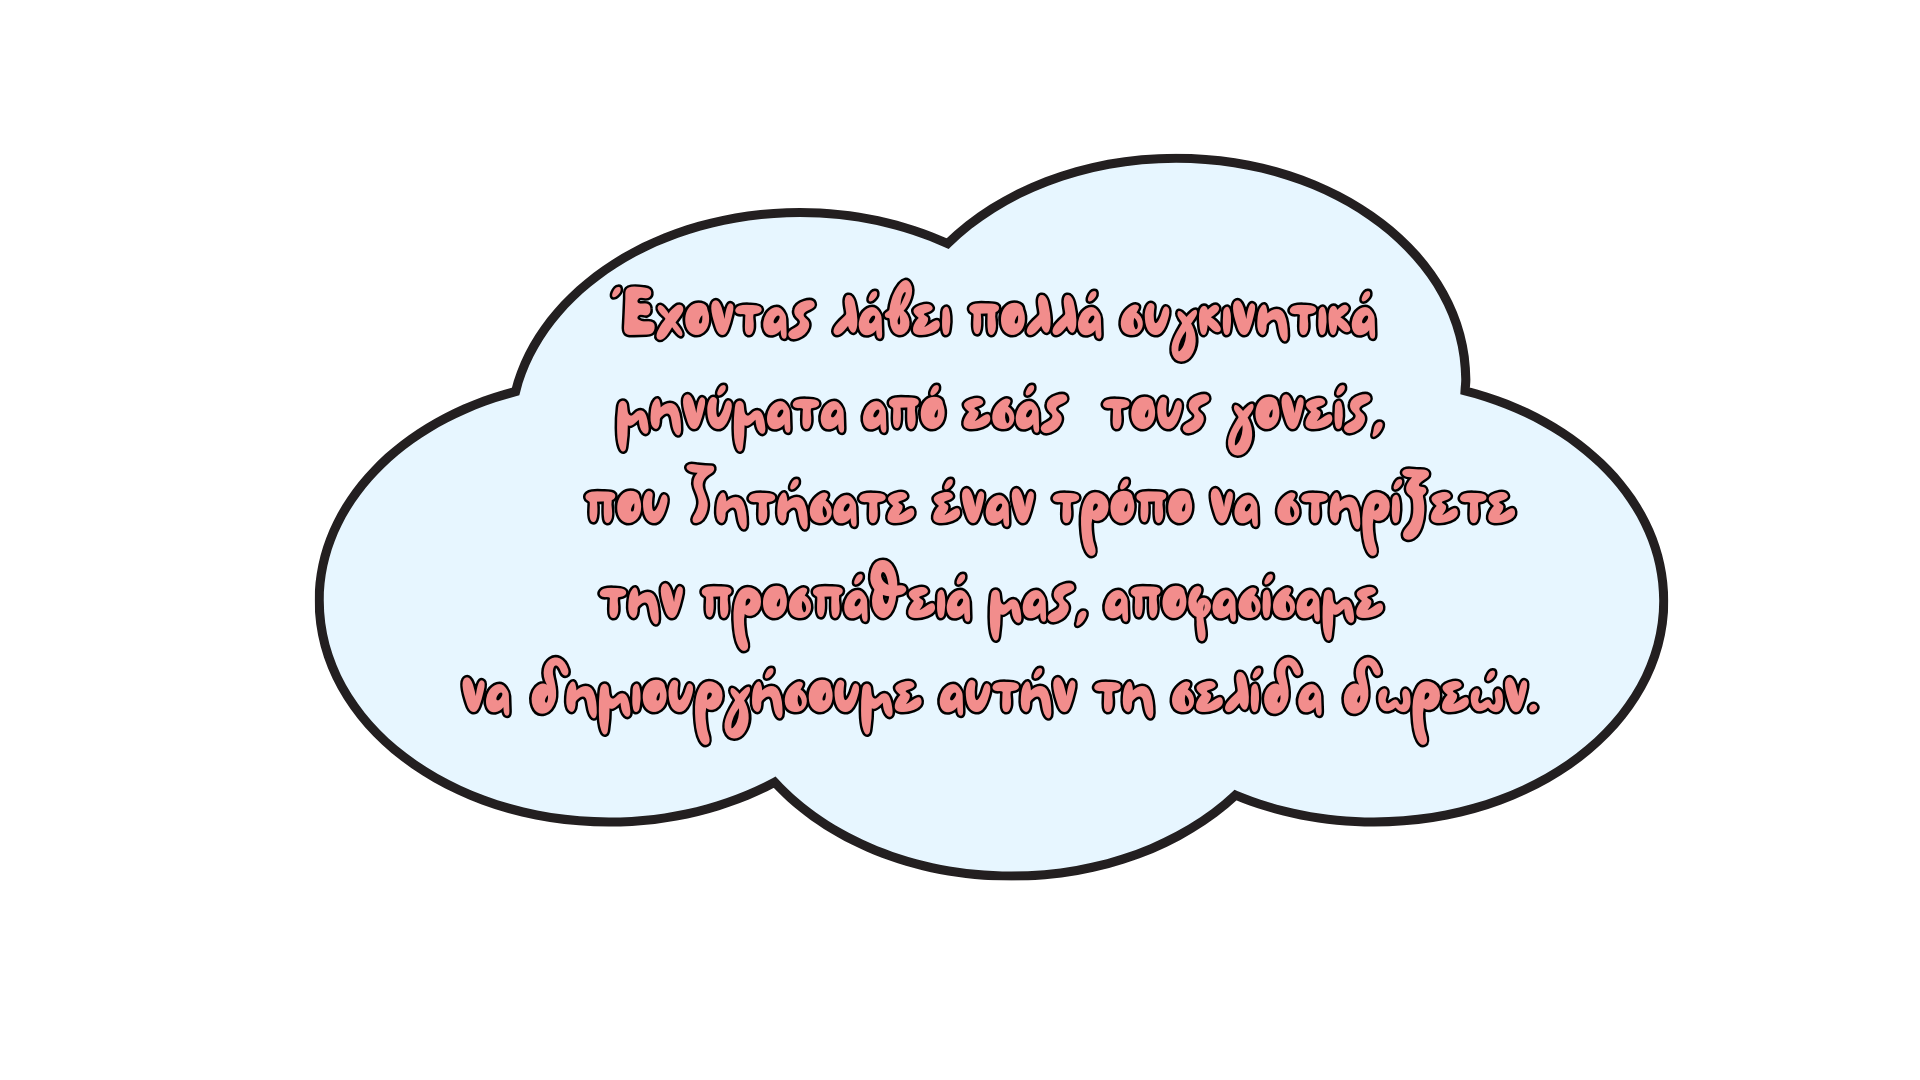
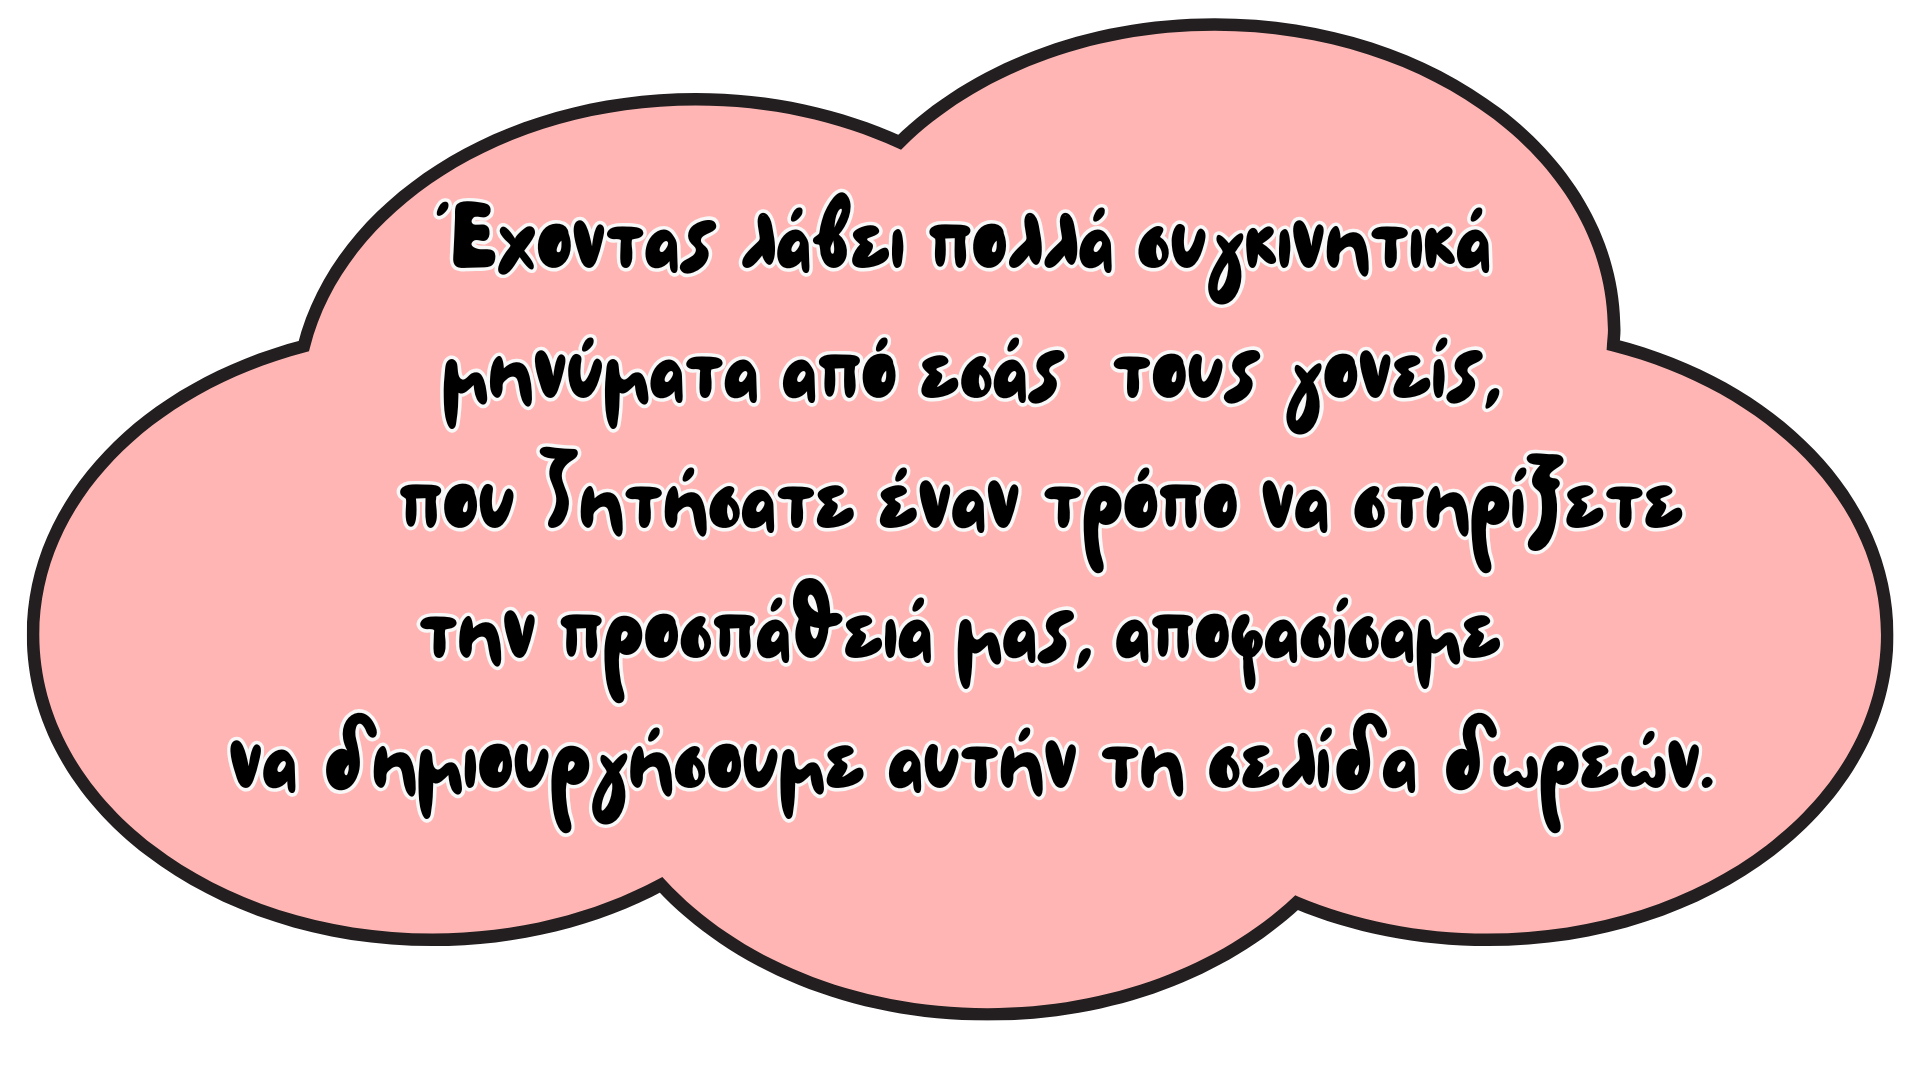
donate design update

diff --git a/resources/js/Pages/Donate.tsx b/resources/js/Pages/Donate.tsx
@@ -19,6 +19,7 @@ const Donate = ({ auth }: PageProps) => {
             Η δωρέα δεν ειναι απαραίτητη , εμείς θα συνεχίσουμε να δινουμε τον
             καλυτερο μας εαυτο για τα παιδια μας.
           </h1>
+
           <form
             action="https://www.paypal.com/donate"
             method="post"
@@ -30,8 +31,9 @@ const Donate = ({ auth }: PageProps) => {
               value="P8FY7TRDVBJMC"
             />
             <input
+              className="h-auto transition-shadow duration-300 rounded-lg shadow-lg bg-green-50/65 mt-14 w-80 sm:w-48 md:w-64 lg:w-72 hover:shadow-xl"
               type="image"
-              src="https://pics.paypal.com/00/s/NjA4Nzk1MzAtNDFmYS00Y2E2LTk2ZDUtZGQ3ZTk0MmU1NTIz/file.PNG"
+              src="https://pics.paypal.com/00/s/MjZiZTc2MGEtMjMyNS00ZGVlLWFkNjEtMjc0ODE1YzY5ZjBh/file.PNG"
               name="submit"
               title="PayPal - The safer, easier way to pay online!"
               alt="Donate with PayPal button"
@@ -45,14 +47,14 @@ const Donate = ({ auth }: PageProps) => {
           </form>
         </div>
         <div className="px-4 py-2  text-[#444444] max-w-lg leading-relaxe"></div>
-        <div className="flex flex-row flex-wrap items-center justify-center text-center sm:flex-row">
+        <div className="flex flex-row flex-wrap items-center justify-center w-full text-center sm:flex-row">
           <img
-            className="flex-1 w-[220px] sm:w-[320px] sm:max-w-[320px]   md:w-[350px] md:max-w-[375px] lg:w-[500px]  lg:max-w-[650px] object-contain"
+            className="custom-img  w-[490px] sm:w-[320px] sm:max-w-none md:w-[350px] lg:w-[500px] lg:max-w-[650px]"
             src="/images/cloud1.png"
             alt="cloud message"
           />
           <img
-            className="flex-1 w-[220px] sm:w-[320px] sm:max-w-[320px]   md:w-[350px] md:max-w-[375px] lg:w-[500px]  lg:max-w-[650px] object-contain"
+            className="custom-img  w-[490px] sm:w-[320px] sm:max-w-none md:w-[350px] lg:w-[500px] lg:max-w-[650px]"
             src="/images/cloud2.png"
             alt="cloud message"
           />

diff --git a/resources/js/Components/Navigation.tsx b/resources/js/Components/Navigation.tsx
@@ -112,7 +112,7 @@ export default function Navigation({ auth }: PageProps) {
                 href={route("donate")}
                 className="rounded-lg bg-[#4197f4] px-4 py-1.5  text-white lg:text-md transition hover:bg-[#fe7171] focus:outline-none flex items-center"
               >
-                Donate
+                Στηρίξτε μας
               </Link>
               <div>
                 {" "}
@@ -306,7 +306,7 @@ export default function Navigation({ auth }: PageProps) {
                       href={route("donate")}
                       className="block px-8 w-full xs:py-4 text-center md:py-2 -mx-3 text-lg  leading-7 text-white bg-[#3da0f6] rounded-lg hover:bg-[#f9df5e] transition transform duration-150 ease-in-out active:scale-95"
                     >
-                      Donate
+                      Στηρίξτε μας
                     </Link>
 
                     <Link

diff --git a/resources/css/app.css b/resources/css/app.css
@@ -144,6 +144,11 @@ p {
     font-weight: bolder;
 }
 
+.custom-img {
+    max-width: none !important; /* Removes the restriction */
+    height: auto !important;
+    overflow: scroll; /* Keeps the aspect ratio */
+}
 @keyframes bgTransition {
     0% {
         width: 0;

diff --git a/routes/web.php b/routes/web.php
@@ -62,7 +62,7 @@ Route::get('/video', function () {
 })->name('video');
 
 // About page route
-Route::get('/about', function () {
+Route::get('/poioi-eimaste', function () {
     return Inertia::render('About', [
         'pageTitle' => 'Ποιοι Είμαστε',
     ]);
@@ -74,7 +74,7 @@ Route::get('/blog', function () {
         'pageTitle' => 'Blog',
     ]);
 })->name('blog');
-Route::get('/donate', function () {
+Route::get('/stirixte-mas', function () {
     return Inertia::render('Donate', [
         'pageTitle' => 'Donate',
     ]);
